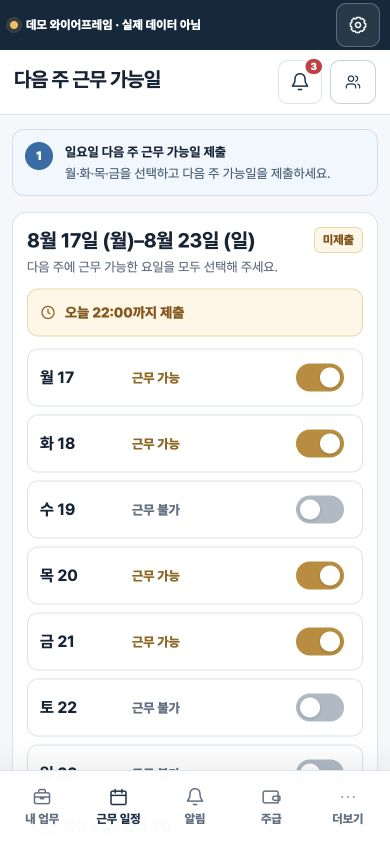
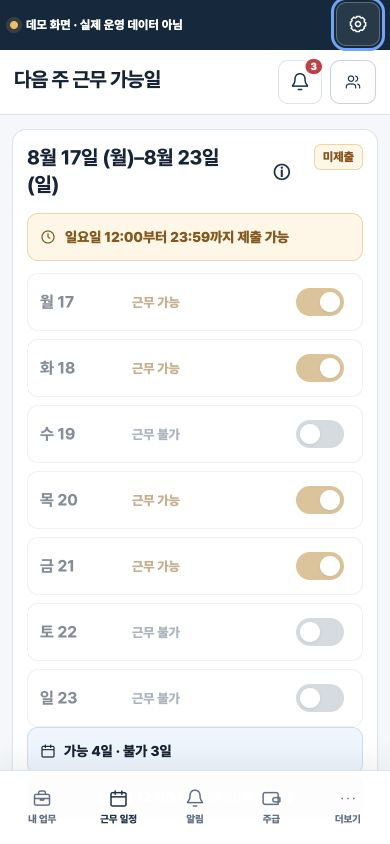
fix: 메이드 가능일 제출 시간을 연장하라

diff --git a/WIREFRAME/index.html b/WIREFRAME/index.html
@@ -2458,7 +2458,7 @@
             <div class="demo-controls">
               <div class="demo-field"><label for="demo-role">역할</label><select id="demo-role" data-control="role"><option value="admin" ${state.role==='admin'?'selected':''}>관리자</option><option value="maid" ${state.role==='maid'?'selected':''}>메이드</option></select></div>
               ${state.role==='maid'?`<div class="demo-field"><label for="demo-maid-account">메이드 계정</label><select id="demo-maid-account" data-control="maid-account">${MAIDS.map(maid=>`<option value="${maid.id}" ${signedInMaidId()===maid.id?'selected':''}>${esc(maid.name)}</option>`).join('')}</select></div>`:''}
-              <div class="demo-field"><label for="demo-time">시간</label><select id="demo-time" data-control="time"><option ${state.time==='10:30'?'selected':''}>10:30</option><option ${state.time==='10:32'?'selected':''}>10:32</option><option ${state.time==='11:05'?'selected':''}>11:05</option><option ${state.time==='13:05'?'selected':''}>13:05</option><option ${state.time==='16:05'?'selected':''}>16:05</option><option ${state.time==='21:10'?'selected':''}>21:10</option><option ${state.time==='21:55'?'selected':''}>21:55</option><option ${state.time==='22:15'?'selected':''}>22:15</option></select></div>
+              <div class="demo-field"><label for="demo-time">시간</label><select id="demo-time" data-control="time"><option ${state.time==='00:00'?'selected':''}>00:00</option><option ${state.time==='10:30'?'selected':''}>10:30</option><option ${state.time==='10:32'?'selected':''}>10:32</option><option ${state.time==='11:05'?'selected':''}>11:05</option><option ${state.time==='11:59'?'selected':''}>11:59</option><option ${state.time==='12:00'?'selected':''}>12:00</option><option ${state.time==='13:05'?'selected':''}>13:05</option><option ${state.time==='16:05'?'selected':''}>16:05</option><option ${state.time==='21:10'?'selected':''}>21:10</option><option ${state.time==='21:55'?'selected':''}>21:55</option><option ${state.time==='22:15'?'selected':''}>22:15</option><option ${state.time==='23:59'?'selected':''}>23:59</option></select></div>
               <div class="demo-field"><label for="demo-network">네트워크</label><select id="demo-network" data-control="network"><option value="online" ${state.network==='online'?'selected':''}>정상</option><option value="offline" ${state.network==='offline'?'selected':''}>오프라인</option><option value="stale" ${state.network==='stale'?'selected':''}>오래된 데이터</option></select></div>
               <div class="demo-field scenario"><label for="demo-scenario">시나리오</label><select id="demo-scenario" data-control="scenario">${Object.entries(SCENARIOS).map(([id,s])=>`<option value="${id}" ${state.scenario===Number(id)?'selected':''}>${id==='0'?'기본':id+'.'} ${esc(s.title)}</option>`).join('')}</select></div>
               <button class="btn btn-ghost demo-reset" type="button" data-action="reset">${icon('refresh','icon-sm')}초기 상태로 재설정</button>
@@ -2528,7 +2528,7 @@
           if(/정적 데모|정적 파일|현재 탭 메모리|브라우저의 화면 상태/.test(notice.textContent))notice.remove();
         });
         root.querySelectorAll('.rail-row span').forEach(copy=>{copy.textContent=copy.textContent.replace(/\s*·\s*내 담당 작업만 표시/g,'').replace(/\s*·\s*본인 기록만 확인/g,'').replace(/\s*·\s*객실별 합계/g,'');});
-        addAdminHelp(root,'8월 17일 (월)–8월 23일 (일)','maid-schedule','근무 가능일','다음 주에 일할 수 있는 요일을 모두 고른 뒤 제출하세요. 객실과 순서는 관리자가 각 근무일 전날 배정합니다.');
+        addAdminHelp(root,'8월 17일 (월)–8월 23일 (일)','maid-schedule','근무 가능일','일요일 12:00부터 23:59까지 다음 주에 일할 수 있는 요일을 모두 고른 뒤 제출하세요. 객실과 순서는 관리자가 각 근무일 전날 배정합니다.');
         addAdminHelp(root,'배정된 내 업무','maid-assigned','배정된 업무','관리자가 통보한 업무만 표시합니다. 담당이나 순서가 바뀌면 알림에서 확인할 수 있습니다.');
         root.querySelectorAll('.mobile-section-title h2').forEach((heading,index)=>{if(heading.textContent.trim().startsWith('내 업무 '))addAdminHelpToElement(heading,`maid-my-${index}`,'내 업무','관리자가 통보한 업무만 표시하며 청소는 한 번에 한 객실씩 진행합니다.');});
         addAdminHelp(root,'지금까지 주급 내역','maid-pay','주급 내역','월요일부터 일요일까지 관리자 승인을 받은 청소비를 합산합니다. 검수 대기는 예상 금액에만 표시되고, 폭탄방 승인 시 해당 객실 기본요금과 같은 추가요금이 반영됩니다. 컴플레인·벌점은 자동 차감되지 않습니다.');
@@ -3916,10 +3916,12 @@
         const [year,month,day]=String(iso).split('-').map(Number),value=new Date(Date.UTC(year,month-1,day)).getUTCDay();
         return (value+6)%7;
       }
+      const AVAILABILITY_SUBMISSION_DATE='2026-08-16',AVAILABILITY_OPEN_TIME='12:00',AVAILABILITY_CLOSE_TIME='23:59';
+      function availabilitySubmissionWindowLabel() { return `일요일 ${AVAILABILITY_OPEN_TIME}부터 ${AVAILABILITY_CLOSE_TIME}까지`; }
       function availabilitySubmissionPhase() {
-        const openingDate='2026-08-16',minutes=timeMinutes(state.time),openingMinutes=timeMinutes('12:00'),closingMinutes=timeMinutes('22:00');
-        if(state.selectedDate<openingDate||(state.selectedDate===openingDate&&minutes<openingMinutes))return 'before';
-        if(state.selectedDate===openingDate&&minutes<=closingMinutes)return 'open';
+        const minutes=timeMinutes(state.time),openingMinutes=timeMinutes(AVAILABILITY_OPEN_TIME),closingMinutes=timeMinutes(AVAILABILITY_CLOSE_TIME);
+        if(state.selectedDate<AVAILABILITY_SUBMISSION_DATE||(state.selectedDate===AVAILABILITY_SUBMISSION_DATE&&minutes<openingMinutes))return 'before';
+        if(state.selectedDate===AVAILABILITY_SUBMISSION_DATE&&minutes<=closingMinutes)return 'open';
         return 'closed';
       }
       function availabilityCell(maidId,dayIndex) {
@@ -4251,7 +4253,7 @@
       function renderWorkforce() {
         const submitted=Object.values(state.weeklyAvailability).filter(item=>['submitted','change-requested'].includes(item.status)).length;
         const cards=MAIDS.map((maid,i)=>{const record=state.weeklyAvailability[maid.id],availableDays=record.days.map(index=>['월','화','수','목','금','토','일'][index]).join('·')||'없음';return `<article class="card pay-person"><div class="pay-person-head"><div class="avatar">${maid.name[0]}</div><div><h3>${maid.name} · 데모</h3><p>${maid.phone} · ${maid.active}</p></div>${statusBadge(record.status==='submitted'?'제출 완료':record.status==='change-requested'?'변경 요청':'미제출',record.status==='submitted'?'green':record.status==='change-requested'?'amber':'red')}</div><div class="pay-stats"><div class="pay-stat"><span>다음 주 가능</span><strong>${availableDays}</strong></div><div class="pay-stat"><span>예정 배정</span><strong>${assignmentTargets().filter(item=>assignmentFor(item).maidId===maid.id).length}객실</strong></div><div class="pay-stat"><span>제출 시각</span><strong>${record.submittedAt||'—'}</strong></div></div>${button('상세·이력','maid-detail','outline',`data-id="${maid.id}"`)}</article>`;}).join('');
-        return `<section class="card assignment-panel"><div class="assignment-panel-head"><div><h3>메이드 주간 근무표</h3><p>8월 17일–23일 · 일요일 밤 마감</p></div>${statusBadge(`${submitted}/${MAIDS.length} 제출`,submitted===MAIDS.length?'green':'amber')}</div>${renderAvailabilityMatrix()}</section><div class="room-list-v2">${cards}</div>`;
+        return `<section class="card assignment-panel"><div class="assignment-panel-head"><div><h3>메이드 주간 근무표</h3><p>8월 17일–23일 · 일요일 23:59 마감</p></div>${statusBadge(`${submitted}/${MAIDS.length} 제출`,submitted===MAIDS.length?'green':'amber')}</div>${renderAvailabilityMatrix()}</section><div class="room-list-v2">${cards}</div>`;
       }
       function payrollDateLabel(value) {
         const match=String(value||'').match(/(?:\d{4}[.-])?(\d{1,2})[.-](\d{1,2})/);
@@ -4742,13 +4744,13 @@
       }
       function renderAvailabilityCard() {
         const selected=state.availabilityDraft||[];
-        return `<section class="card availability-card"><div class="availability-result">${statusBadge(state.availabilitySubmitted?'다음 주 제출 완료':'다음 주 미제출',state.availabilitySubmitted?'green':'amber')}<div><strong>8월 17일–23일 · 가능 ${selected.length}일</strong><span>일요일 22:00 마감 · 객실 담당은 관리자만 배정</span></div>${button('근무 일정 열기','go-schedule','outline')}</div></section>`;
+        return `<section class="card availability-card"><div class="availability-result">${statusBadge(state.availabilitySubmitted?'다음 주 제출 완료':'다음 주 미제출',state.availabilitySubmitted?'green':'amber')}<div><strong>8월 17일–23일 · 가능 ${selected.length}일</strong><span>${availabilitySubmissionWindowLabel()} 제출 · 객실 담당은 관리자만 배정</span></div>${button('근무 일정 열기','go-schedule','outline')}</div></section>`;
       }
       function renderMaidSchedule() {
         const maidId=signedInMaidId(),accountActive=signedInMaidIsActive(),dayNames=[['월','17'],['화','18'],['수','19'],['목','20'],['금','21'],['토','22'],['일','23']],selected=state.availabilityDraft||[],phase=availabilitySubmissionPhase(),submitted=state.availabilitySubmitted,availableCount=selected.length;
         const assigned=notifiedAssignmentEntriesForMaid(maidId);
         const assignedCards=assigned.length?assigned.map(({item})=>`<div class="assigned-preview-grid"><div><span>근무일</span><strong>월 17</strong></div><div><span>객실</span><strong>${item.room}호</strong></div><div><span>업무</span><strong>${esc(item.kind)}</strong></div><div><span>시작 가능</span><strong>${item.checkout} 이후</strong></div></div>`).join(''):`<div class="inline-empty"><h3>배정된 업무가 없습니다</h3><p>관리자가 근무일 전날 밤 객실 담당을 확정하면 여기에 표시됩니다.</p></div>`;
-        const phaseText=!accountActive?'비활성 계정 · 과거 제출 읽기 전용':phase==='before'?'일요일 12:00부터 제출 가능':phase==='open'?'오늘 22:00까지 제출':'제출 마감 지남 · 변경은 관리자 확인 필요';
+        const submissionWindow=availabilitySubmissionWindowLabel(),phaseText=!accountActive?'비활성 계정 · 과거 제출 읽기 전용':phase==='before'?`${submissionWindow} 제출 가능`:phase==='open'?`${submissionWindow} · 지금 제출 가능`:`${submissionWindow} 마감 · 변경은 관리자 확인 필요`;
         const editorLocked=!accountActive||submitted||state.availabilityChangeRequested||phase!=='open'||isLocked();
         let actionMarkup='';
         if(!accountActive)actionMarkup='<div class="notice notice-warning" style="margin:0"><div><strong>가능일 수정 잠금</strong><br>비활성 처리 중이거나 비활성인 계정은 과거 제출만 조회할 수 있습니다.</div></div>';
@@ -4756,7 +4758,7 @@
         else if(submitted&&phase==='open')actionMarkup=button('제출 내용 수정','edit-week-availability','primary',isLocked()?'disabled':'');
         else if(submitted&&phase==='closed')actionMarkup=button('가능일 변경 요청','request-availability-change','outline',isLocked()?'disabled':'');
         else if(submitted)actionMarkup=button('제출 기간 아님','edit-week-availability','outline','disabled');
-        else actionMarkup=button(phase==='open'?'다음 주 가능일 제출':phase==='before'?'일요일 12:00부터 제출':'제출 마감','submit-week-availability','primary',phase==='open'&&!isLocked()?'':'disabled');
+        else actionMarkup=button(phase==='open'?'다음 주 가능일 제출':phase==='before'?`${submissionWindow} 제출`:'제출 마감','submit-week-availability','primary',phase==='open'&&!isLocked()?'':'disabled');
         return renderCoach()+renderNetworkNotice()+`<div class="weekly-availability"><section class="card week-card"><div class="week-card-head"><div><h2>8월 17일 (월)–8월 23일 (일)</h2><p>다음 주에 근무 가능한 요일을 모두 선택해 주세요.</p></div>${statusBadge(state.availabilityChangeRequested?'변경 요청':submitted?'제출 완료':'미제출',state.availabilityChangeRequested?'amber':submitted?'green':'amber')}</div><div class="deadline-bar">${icon('clock','icon-sm')}<span>${phaseText}</span></div><div class="week-days" aria-label="다음 주 근무 가능일">${dayNames.map((day,index)=>{const active=selected.includes(index);return `<button class="week-day" type="button" data-action="toggle-week-day" data-day="${index}" aria-pressed="${active}" ${editorLocked?'disabled':''}><strong>${day[0]} ${day[1]}</strong><span>${active?'근무 가능':'근무 불가'}</span><i class="week-toggle" aria-hidden="true"></i></button>`;}).join('')}</div><div class="week-total">${icon('calendar','icon-sm')}가능 ${availableCount}일 · 불가 ${7-availableCount}일</div><div class="week-submit-actions">${actionMarkup}</div><div class="assignment-notice">${icon('user')}<p>관리자가 각 근무일 전날 밤 객실을 직접 배정합니다. 메이드는 객실을 선택하거나 다른 메이드에게 배정할 수 없습니다.</p></div></section><section class="card assigned-preview"><div class="section-head"><div><h2>배정된 내 업무</h2><span class="meta">관리자 통보 완료 건만 표시</span></div>${statusBadge(`${assigned.length}건`,'blue')}</div>${assignedCards}<p class="audit-note" style="margin:10px 0 0">배정이 바뀌면 기존 담당 구간은 이력으로 남고 알림에서 변경 내용을 확인할 수 있습니다.</p></section></div>`;
       }
       function publicJobCard(no) {
@@ -5807,7 +5809,7 @@
           render();focusAfterRender(`[data-action="toggle-week-day"][data-day="${day}"]`);return;
         }
         if(a==='submit-week-availability'){
-          if(state.role!=='maid'||!signedInMaidIsActive()||state.availabilitySubmitted||state.availabilityChangeRequested||availabilitySubmissionPhase()!=='open'||isLocked()){toast(signedInMaidIsActive()?'일요일 12:00–22:00 사이 메이드 본인 최신 상태에서만 가능일을 제출할 수 있습니다.':'비활성 처리 중이거나 비활성인 계정은 가능일을 제출할 수 없습니다.','error');return;}
+          if(state.role!=='maid'||!signedInMaidIsActive()||state.availabilitySubmitted||state.availabilityChangeRequested||availabilitySubmissionPhase()!=='open'||isLocked()){toast(signedInMaidIsActive()?`${availabilitySubmissionWindowLabel()} 메이드 본인 최신 상태에서만 가능일을 제출할 수 있습니다.`:'비활성 처리 중이거나 비활성인 계정은 가능일을 제출할 수 없습니다.','error');return;}
           const maidId=signedInMaidId(),maidName=signedInMaidName(),history=state.availabilityHistory||(state.availabilityHistory=[]),version=history.filter(item=>item.maidId===maidId&&item.weekStart==='2026-08-17').length+1,submittedAt=`8/16 ${state.time}`;
           state.availabilitySubmitted=true;state.availabilityChangeRequested=false;state.weeklyAvailability[maidId]={days:[...state.availabilityDraft],status:'submitted',submittedAt};
           history.push({id:`availability-${maidId}-2026-08-17-v${version}`,maidId,weekStart:'2026-08-17',days:[...state.availabilityDraft],submittedAt,version});
@@ -5818,7 +5820,7 @@
           if(state.role!=='maid'||!signedInMaidIsActive()||!state.availabilitySubmitted||state.availabilityChangeRequested||availabilitySubmissionPhase()!=='open'||isLocked())return;state.availabilitySubmitted=false;state.weeklyAvailability[signedInMaidId()].status='draft';render();focusAfterRender('[data-action="toggle-week-day"]');toast('일요일 제출 시간 안에서 내용을 수정할 수 있습니다.');return;
         }
         if(a==='request-availability-change'){
-          if(state.role!=='maid'||!signedInMaidIsActive()||!state.availabilitySubmitted||state.availabilityChangeRequested||availabilitySubmissionPhase()!=='closed'||isLocked())return;state.availabilityChangeRequested=true;state.weeklyAvailability[signedInMaidId()].status='change-requested';appendEvent(`${signedInMaidName()} 가능일 변경 요청`,'일요일 22:00 마감 후 · 기존 제출 버전 유지 · 관리자 확인 필요',{maidIds:[signedInMaidId()]});render();focusAfterRender();toast('관리자에게 가능일 변경 요청을 보냈습니다.');return;
+          if(state.role!=='maid'||!signedInMaidIsActive()||!state.availabilitySubmitted||state.availabilityChangeRequested||availabilitySubmissionPhase()!=='closed'||isLocked())return;state.availabilityChangeRequested=true;state.weeklyAvailability[signedInMaidId()].status='change-requested';appendEvent(`${signedInMaidName()} 가능일 변경 요청`,'일요일 23:59 마감 후 · 기존 제출 버전 유지 · 관리자 확인 필요',{maidIds:[signedInMaidId()]});render();focusAfterRender();toast('관리자에게 가능일 변경 요청을 보냈습니다.');return;
         }
         if(a==='random-assignments'){
           if(state.role!=='admin'||isLocked()){toast('관리자 최신 상태에서만 랜덤 배정 초안을 만들 수 있습니다.','error');return;}

diff --git a/WIREFRAME/QA.md b/WIREFRAME/QA.md
@@ -175,6 +175,20 @@
 | 360·390·768·1440px | 통과 | 네 너비 모두 근무표 내부 가로 넘침 0px, 페이지 가로 넘침 0px |
 | 콘솔 | 통과 | 최종 인앱 브라우저 warning/error 0건 |
 
+## 추가 검증 · 메이드 근무 가능일 제출 시간
+
+> 2026-08-18 로컬 HTTP의 인앱 브라우저에서 일요일 제출 시작·마감 경계와 메이드 모바일 화면을 확인했다.
+
+| 항목 | 결과 | 실제 확인 내용 |
+|---|---|---|
+| 제출 시간 안내 | 통과 | 메이드 근무 일정 배너에 `일요일 12:00부터 23:59까지 제출 가능`을 표시하고, `ⓘ` 도움말에서도 같은 시간을 확인했다. |
+| 시작 경계 | 통과 | 일요일 11:59에는 7개 요일과 제출 버튼이 모두 잠기고, 12:00에는 같은 컨트롤이 활성화됐다. |
+| 종료 경계 | 통과(브라우저·정적) | 일요일 22:15와 23:59에도 제출 가능했고, 23:59 제출 뒤 `제출 내용 수정`이 활성화됐다. 다음 날 00:00에는 직접 제출이 잠기며, 기존 제출은 보존하고 변경 요청만 허용하는 분기를 정적으로 확인했다. |
+| 권한·연결 상태 | 통과(브라우저·정적) | 12:00에도 오프라인·오래된 데이터에서는 제출 버튼이 잠겼다. 비활성 계정 잠금은 권한 분기와 정적 계약으로 확인했다. |
+| 모바일·접근성 | 통과 | 360·390·768·1440px 모두 가로 넘침 0px, 보이는 메인 버튼의 최소 높이 44px였다. 배너와 제출 버튼의 접근성 이름도 새 시간을 반영했다. |
+| 콘솔·정적 구문 | 통과 | 경계 전환·제출·잠금 확인 뒤 console warning/error 0건, 인라인 JavaScript와 정적 계약 검사를 통과했다. |
+| 대표 PNG | 통과 | `QA/screenshots/maid-weekly-availability-390.png`을 제출 전 새 안내가 보이는 실제 390×844 화면으로 교체했다. |
+
 ## 추가 검증 · 랜덤 배정과 기존 비교판 제거
 
 | 항목 | 결과 | 실제 확인 내용 |
@@ -619,7 +633,7 @@
 - `QA/screenshots/admin-weekly-work-history-390.png`: 월–일 조회 주차 버튼과 `명 / 일` 분리 요약을 쌓아 표시한 근무 기록 모바일 390×844
 - `QA/screenshots/admin-weekly-work-history-calendar-1440.png`: 일요일–토요일 고정 열의 2026년 8월 달력에서 8월 10–16일 운영 주차를 두 행으로 선택한 데스크톱 1440×1000
 - `QA/screenshots/admin-weekly-work-history-calendar-390.png`: 같은 두 행 주차 선택과 이후 주차 잠금이 보이는 모바일 바텀시트 390×844
-- `QA/screenshots/maid-weekly-availability-390.png`: 메이드 다음 주 가능일 모바일 390×844
+- `QA/screenshots/maid-weekly-availability-390.png`: 일요일 12:00–23:59 제출 안내와 제출 전 잠금 상태를 보여 주는 메이드 다음 주 가능일 모바일 390×844
 - `QA/screenshots/admin-type-photo-template-1440.png`: 관리자 4타입 청소 템플릿·참고 객실·활성 버전 1440px 확인
 - `QA/screenshots/maid-type-photo-template-390.png`: 메이드 528호 프리미어 퇴실 청소 v5·레이아웃 확인 보류·최소 공통 촬영 슬롯을 체크와 분리해 보여 준 이전 화면 참고 · 현재 사진 전용 검증 근거 아님
 - `QA/screenshots/maid-zone-camera-390.png`: 체크리스트 없이 구역별 사진 슬롯과 남은 필수 사진을 보여 주는 현재 모바일 390×844

diff --git a/DOCS/16_WEEKLY_AVAILABILITY_ASSIGNMENT_POLICY.md b/DOCS/16_WEEKLY_AVAILABILITY_ASSIGNMENT_POLICY.md
@@ -10,7 +10,7 @@
 
 ## 2. 주간 운영 흐름
 
-1. 메이드는 일요일 오후부터 22:00까지 다음 주 월요일–일요일의 근무 가능일을 모두 선택해 제출한다.
+1. 메이드는 한국시간 기준 일요일 12:00부터 23:59까지(양 끝 시각 포함) 다음 주 월요일–일요일의 근무 가능일을 모두 선택해 제출한다.
 2. 마감 전에는 제출 내용을 직접 수정할 수 있다. 마감 뒤에는 기존 제출을 유지하고 관리자에게 변경 요청을 보낸다.
 3. 관리자는 일요일 밤 또는 월요일 근무 시작 전에 모든 메이드의 제출·미제출·변경 요청과 요일별 가능 인원을 한 화면에서 확인한다.
    - 일요일은 다음 주 가능일 제출·확인 시점이다. `내일 청소 배정`은 일요일 전용 화면이 아니라 청소대상이 있는 매일 전날 운영하며, 각 대상일에 제출된 가능 여부를 사용한다.
@@ -155,7 +155,7 @@
 ## 6. 수용 기준
 
 - 메이드 화면에 공개 일감 목록이나 객실 선택 행동이 없다.
-- 메이드는 일요일에 다음 주 7일 가능 여부를 제출하고 마감 전 수정 또는 마감 뒤 변경 요청을 할 수 있다.
+- 메이드는 한국시간 기준 일요일 12:00–23:59(양 끝 시각 포함)에 다음 주 7일 가능 여부를 제출하고 마감 전 수정 또는 마감 뒤 변경 요청을 할 수 있다.
 - 관리자는 전체 제출 매트릭스와 다음 날 객실별 담당 선택을 한 화면에서 처리한다.
 - 관리자 `메이드 주간 근무표`의 셀에는 `가능 / 불가 / 미제출` 한글을 반복하지 않고 `✓ / × / —`만 표시하며, 가로 넘침 없이 전체 7일을 보여준다. 스크린리더에는 메이드명·요일·상태를 함께 전달한다.
 - 배정 대상일에 예정 체크아웃하거나 수동 체크아웃한 객실과 해당 날짜의 투숙 중 청소 신청 객실은 별도 선택 없이 청소대상 목록에 자동 포함된다. 동일 예약의 퇴실 청소는 정확히 한 건이다.
